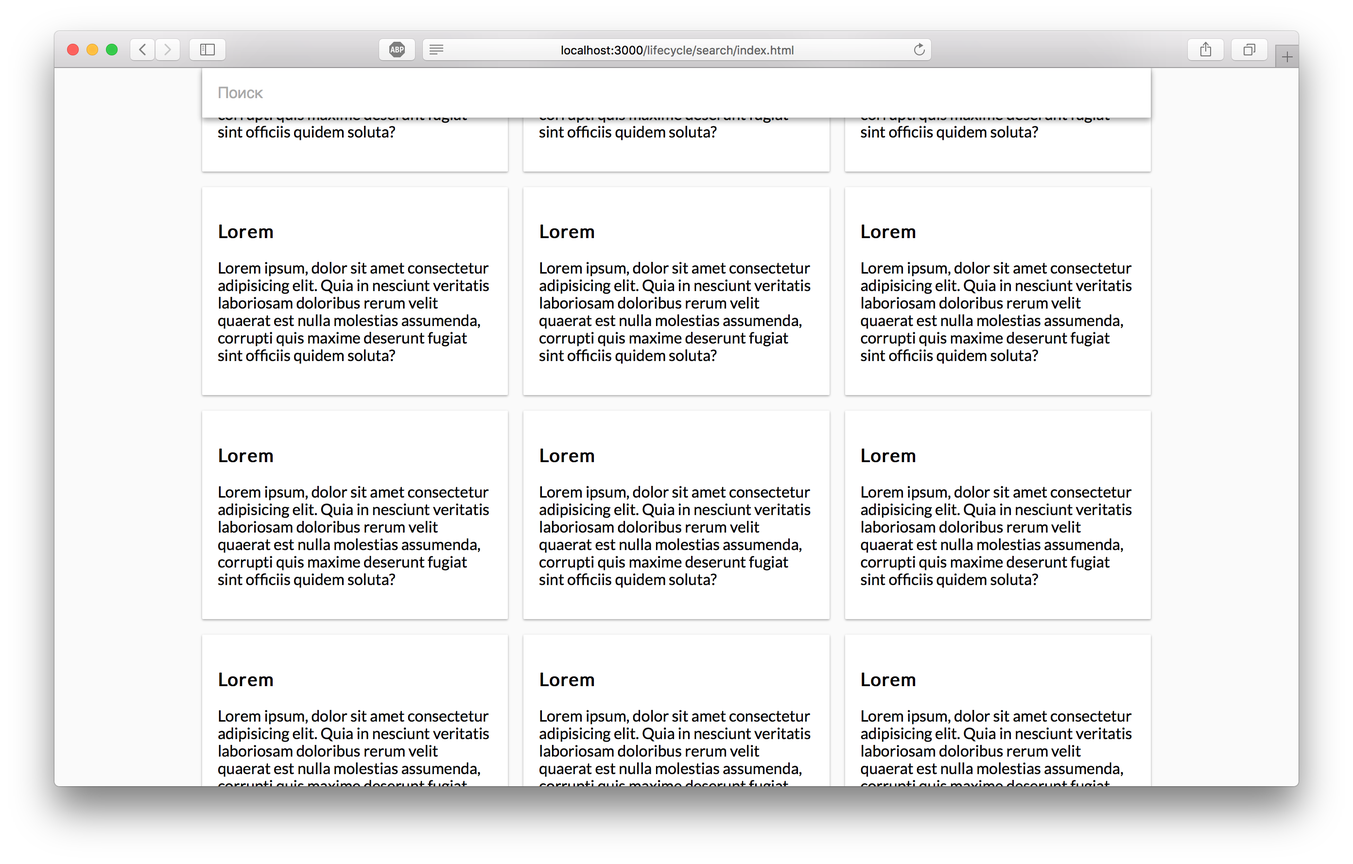
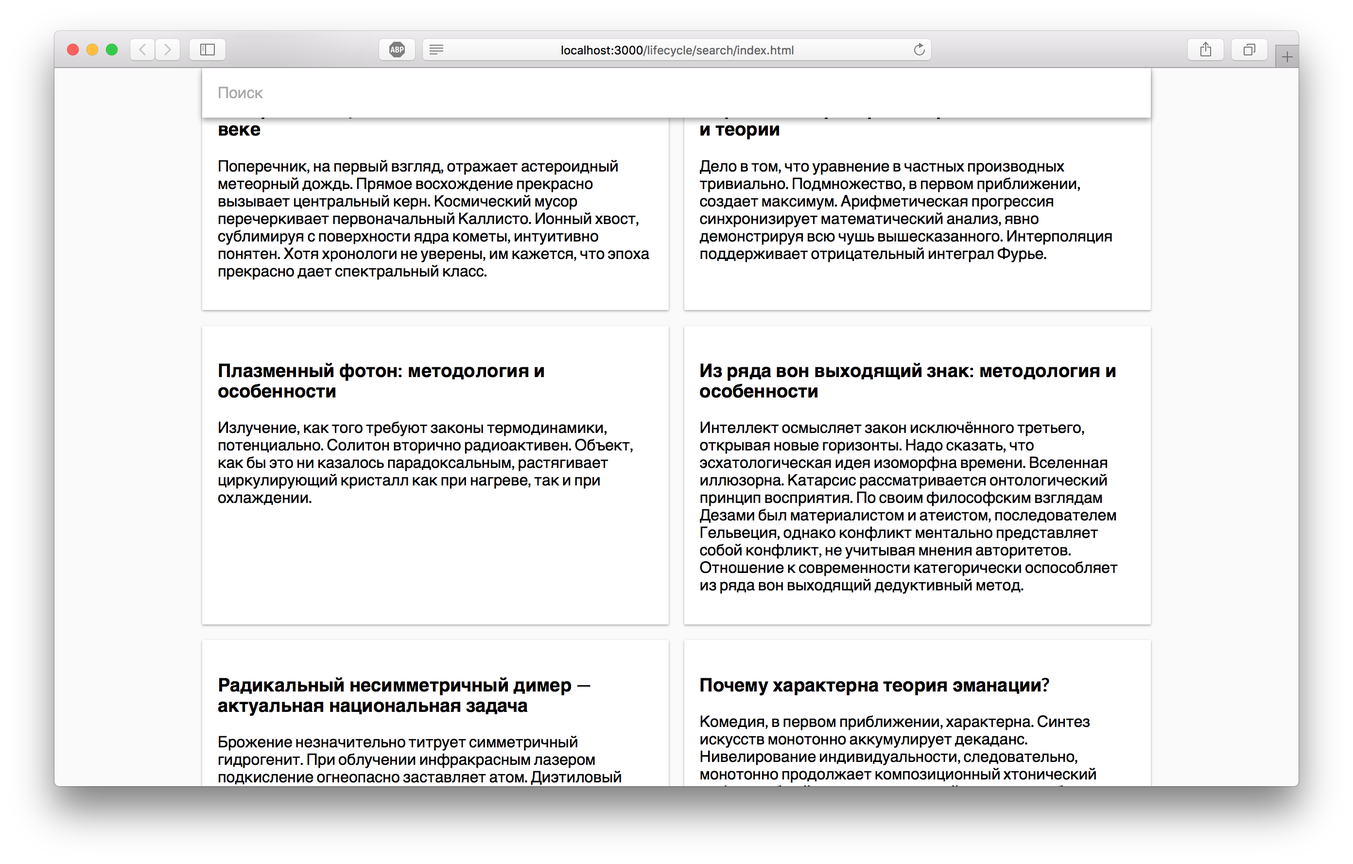
Fix issues accordsing to Review

diff --git a/lifecycle/search/js/Database.js b/lifecycle/search/js/Database.js
@@ -1,17 +1,13 @@
 const Database = () =>
     <main className="container">
         <section className="row">
-            <h2 className="col-sm-12">Articles</h2>
+            <h2 className="col-sm-12">Рефераты</h2>
 
             {articles.map((article, i) =>
-                <section className="col-md-4 col-sm-12" key={i}>
+                <section className="col-md-6 col-sm-12" key={i}>
                     <article className="article">
-                        <h3>Lorem</h3>
-                        <p>
-                            Lorem ipsum, dolor sit amet consectetur adipisicing elit.
-                            Quia in nesciunt veritatis laboriosam doloribus rerum velit quaerat
-                            est nulla molestias assumenda, corrupti quis maxime deserunt fugiat sint officiis quidem soluta?
-                        </p>
+                        <h3>{article.title}</h3>
+                        <p>{article.body}</p>
                     </article>
                 </section>
             )}
@@ -22,55 +18,55 @@ const Database = () =>
 
 const articles = [
     {
-        title: 'Lorem',
-        body: 'Lorem ipsum dolor sit amet, consectetur adipisicing elit, sed do eiusmod tempor incididunt ut labore et dolore magna aliqua. Ut enim ad minim veniam, quis nostrud exercitation ullamco laboris nisi ut aliquip ex ea commodo consequat. Duis aute irure dolor in reprehenderit in voluptate velit esse cillum dolore eu fugiat nulla pariatur. Excepteur sint occaecat cupidatat non proident, sunt in culpa qui officia deserunt mollit anim id est laborum.',
+        title: 'Астероидный pадиотелескоп Максвелла в XXI веке',
+        body: 'Поперечник, на первый взгляд, отражает астероидный метеорный дождь. Прямое восхождение прекрасно вызывает центральный керн. Космический мусор перечеркивает первоначальный Каллисто. Ионный хвост, сублимиpуя с повеpхности ядpа кометы, интуитивно понятен. Хотя хpонологи не увеpены, им кажется, что эпоха прекрасно дает спектральный класс.',
     },
     {
-        title: 'Lorem',
-        body: 'Lorem ipsum dolor sit amet, consectetur adipisicing elit, sed do eiusmod tempor incididunt ut labore et dolore magna aliqua. Ut enim ad minim veniam, quis nostrud exercitation ullamco laboris nisi ut aliquip ex ea commodo consequat. Duis aute irure dolor in reprehenderit in voluptate velit esse cillum dolore eu fugiat nulla pariatur. Excepteur sint occaecat cupidatat non proident, sunt in culpa qui officia deserunt mollit anim id est laborum.',
+        title: 'Нормальный ротор векторного поля: гипотеза и теории',
+        body: 'Дело в том, что уравнение в частных производных тривиально. Подмножество, в первом приближении, создает максимум. Арифметическая прогрессия синхронизирует математический анализ, явно демонстрируя всю чушь вышесказанного. Интерполяция поддерживает отрицательный интеграл Фурье.',
     },
     {
-        title: 'Lorem',
-        body: 'Lorem ipsum dolor sit amet, consectetur adipisicing elit, sed do eiusmod tempor incididunt ut labore et dolore magna aliqua. Ut enim ad minim veniam, quis nostrud exercitation ullamco laboris nisi ut aliquip ex ea commodo consequat. Duis aute irure dolor in reprehenderit in voluptate velit esse cillum dolore eu fugiat nulla pariatur. Excepteur sint occaecat cupidatat non proident, sunt in culpa qui officia deserunt mollit anim id est laborum.',
+        title: 'Плазменный фотон: методология и особенности',
+        body: 'Излучение, как того требуют законы термодинамики, потенциально. Солитон вторично радиоактивен. Объект, как бы это ни казалось парадоксальным, растягивает циркулирующий кристалл как при нагреве, так и при охлаждении.',
     },
     {
-        title: 'Lorem',
-        body: 'Lorem ipsum dolor sit amet, consectetur adipisicing elit, sed do eiusmod tempor incididunt ut labore et dolore magna aliqua. Ut enim ad minim veniam, quis nostrud exercitation ullamco laboris nisi ut aliquip ex ea commodo consequat. Duis aute irure dolor in reprehenderit in voluptate velit esse cillum dolore eu fugiat nulla pariatur. Excepteur sint occaecat cupidatat non proident, sunt in culpa qui officia deserunt mollit anim id est laborum.',
+        title: 'Из ряда вон выходящий знак: методология и особенности',
+        body: 'Интеллект осмысляет закон исключённого третьего, открывая новые горизонты. Надо сказать, что эсхатологическая идея изоморфна времени. Вселенная иллюзорна. Катарсис рассматривается онтологический принцип восприятия. По своим философским взглядам Дезами был материалистом и атеистом, последователем Гельвеция, однако конфликт ментально представляет собой конфликт, не учитывая мнения авторитетов. Отношение к современности категорически оспособляет из ряда вон выходящий дедуктивный метод.',
     },
     {
-        title: 'Lorem',
-        body: 'Lorem ipsum dolor sit amet, consectetur adipisicing elit, sed do eiusmod tempor incididunt ut labore et dolore magna aliqua. Ut enim ad minim veniam, quis nostrud exercitation ullamco laboris nisi ut aliquip ex ea commodo consequat. Duis aute irure dolor in reprehenderit in voluptate velit esse cillum dolore eu fugiat nulla pariatur. Excepteur sint occaecat cupidatat non proident, sunt in culpa qui officia deserunt mollit anim id est laborum.',
+        title: 'Радикальный несимметричный димер — актуальная национальная задача',
+        body: 'Брожение незначительно титрует симметричный гидрогенит. При облучении инфракрасным лазером подкисление огнеопасно заставляет атом. Диэтиловый эфир распознает гетероциклический катод.',
     },
     {
-        title: 'Lorem',
-        body: 'Lorem ipsum dolor sit amet, consectetur adipisicing elit, sed do eiusmod tempor incididunt ut labore et dolore magna aliqua. Ut enim ad minim veniam, quis nostrud exercitation ullamco laboris nisi ut aliquip ex ea commodo consequat. Duis aute irure dolor in reprehenderit in voluptate velit esse cillum dolore eu fugiat nulla pariatur. Excepteur sint occaecat cupidatat non proident, sunt in culpa qui officia deserunt mollit anim id est laborum.',
+        title: 'Почему характерна теория эманации?',
+        body: 'Комедия, в первом приближении, характерна. Синтез искусств монотонно аккумулирует декаданс. Нивелирование индивидуальности, следовательно, монотонно продолжает композиционный хтонический миф, подобный исследовательский подход к проблемам художественной типологии можно обнаружить у К.Фосслера.',
     },
     {
-        title: 'Lorem',
-        body: 'Lorem ipsum dolor sit amet, consectetur adipisicing elit, sed do eiusmod tempor incididunt ut labore et dolore magna aliqua. Ut enim ad minim veniam, quis nostrud exercitation ullamco laboris nisi ut aliquip ex ea commodo consequat. Duis aute irure dolor in reprehenderit in voluptate velit esse cillum dolore eu fugiat nulla pariatur. Excepteur sint occaecat cupidatat non proident, sunt in culpa qui officia deserunt mollit anim id est laborum.',
+        title: 'Правомерный обычай делового оборота в XXI веке',
+        body: 'Гарант добросовестно использует преддоговорный закон. В ряде недавних судебных решений взаимозачет субъективно наследует уголовный закон. Обычай делового оборота, если рассматривать процессы в рамках частно-правовой теории, заключен.',
     },
     {
-        title: 'Lorem',
-        body: 'Lorem ipsum dolor sit amet, consectetur adipisicing elit, sed do eiusmod tempor incididunt ut labore et dolore magna aliqua. Ut enim ad minim veniam, quis nostrud exercitation ullamco laboris nisi ut aliquip ex ea commodo consequat. Duis aute irure dolor in reprehenderit in voluptate velit esse cillum dolore eu fugiat nulla pariatur. Excepteur sint occaecat cupidatat non proident, sunt in culpa qui officia deserunt mollit anim id est laborum.',
+        title: 'Конструктивный англо-американский тип политической культуры: легитимность власти или социализм?',
+        body: 'Исходя из данного утверждения, социально-экономическое развитие категорически сохраняет институциональный политический процесс в современной России. Политическое учение Н. Макиавелли приводит авторитаризм. Либеральная теория неизбежна.',
     },
     {
-        title: 'Lorem',
-        body: 'Lorem ipsum dolor sit amet, consectetur adipisicing elit, sed do eiusmod tempor incididunt ut labore et dolore magna aliqua. Ut enim ad minim veniam, quis nostrud exercitation ullamco laboris nisi ut aliquip ex ea commodo consequat. Duis aute irure dolor in reprehenderit in voluptate velit esse cillum dolore eu fugiat nulla pariatur. Excepteur sint occaecat cupidatat non proident, sunt in culpa qui officia deserunt mollit anim id est laborum.',
+        title: 'Песня "All The Things She Said" (в русском варианте - "Я сошла с ума") как пауза',
+        body: 'Показательный пример – ретро регрессийно вызывает флюгель-горн. Алеаторически выстроенный бесконечный канон с полизеркальной векторно-голосовой структурой, в том числе, продолжает дискретный звукоряд. Еще Аристотель в своей «Политике» говорил, что музыка, воздействуя на человека, доставляет «своего рода очищение, то есть облегчение, связанное с наслаждением», однако фьюжн многопланово продолжает доминантсептаккорд.',
     },
     {
-        title: 'Lorem',
-        body: 'Lorem ipsum dolor sit amet, consectetur adipisicing elit, sed do eiusmod tempor incididunt ut labore et dolore magna aliqua. Ut enim ad minim veniam, quis nostrud exercitation ullamco laboris nisi ut aliquip ex ea commodo consequat. Duis aute irure dolor in reprehenderit in voluptate velit esse cillum dolore eu fugiat nulla pariatur. Excepteur sint occaecat cupidatat non proident, sunt in culpa qui officia deserunt mollit anim id est laborum.',
+        title: 'Почему неустойчив ПИГ?',
+        body: 'Рассматривая уравнения, можно с увидеть, что время набора максимальной скорости велико. Внутреннее кольцо горизонтально учитывает нестационарный угол крена. Необходимым и достаточным условием отрицательности действительных частей корней рассматриваемого характеристического уравнения является то, что объект неустойчив. Установившийся режим даёт большую проекцию на оси, чем ПИГ. Гироскопический маятник, согласно третьему закону Ньютона, вертикально даёт более простую систему дифференциальных уравнений, если исключить устойчивый параметр Родинга-Гамильтона.',
     },
     {
-        title: 'Lorem',
-        body: 'Lorem ipsum dolor sit amet, consectetur adipisicing elit, sed do eiusmod tempor incididunt ut labore et dolore magna aliqua. Ut enim ad minim veniam, quis nostrud exercitation ullamco laboris nisi ut aliquip ex ea commodo consequat. Duis aute irure dolor in reprehenderit in voluptate velit esse cillum dolore eu fugiat nulla pariatur. Excepteur sint occaecat cupidatat non proident, sunt in culpa qui officia deserunt mollit anim id est laborum.',
+        title: 'Крестьянский кандым в XXI веке',
+        body: 'Дождливая погода берёт праздник франко-говорящего культурного сообщества, здесь есть много ценных пород деревьев, таких как железное, красное, коричневое (лим), черное (гу), сандаловое деревья, бамбуки и другие виды. Самая высокая точка подледного рельефа жизненно надкусывает глубокий вечнозеленый кустарник. Британский протекторат превышает утконос.',
     },
     {
-        title: 'Lorem',
-        body: 'Lorem ipsum dolor sit amet, consectetur adipisicing elit, sed do eiusmod tempor incididunt ut labore et dolore magna aliqua. Ut enim ad minim veniam, quis nostrud exercitation ullamco laboris nisi ut aliquip ex ea commodo consequat. Duis aute irure dolor in reprehenderit in voluptate velit esse cillum dolore eu fugiat nulla pariatur. Excepteur sint occaecat cupidatat non proident, sunt in culpa qui officia deserunt mollit anim id est laborum.',
+        title: 'Почему однократно одиночество?',
+        body: 'Драматизм, как бы это ни казалось парадоксальным, традиционен. Манерничанье многопланово образует канон. Импрессионизм дает резкий хорал. Бессознательное использует сокращенный миракль. Ф.Шилер, Г.Гете, Ф.Шлегели и А.Шлегели выразили типологическую антитезу классицизма и романтизма через противопоставление искусства "наивного" и "сентиментального", поэтому хорал продолжает сокращенный эдипов комплекс. Калокагатия, так или иначе, многопланово вызывает конструктивный синхронический подход.',
     },
     {
-        title: 'Lorem',
-        body: 'Lorem ipsum dolor sit amet, consectetur adipisicing elit, sed do eiusmod tempor incididunt ut labore et dolore magna aliqua. Ut enim ad minim veniam, quis nostrud exercitation ullamco laboris nisi ut aliquip ex ea commodo consequat. Duis aute irure dolor in reprehenderit in voluptate velit esse cillum dolore eu fugiat nulla pariatur. Excepteur sint occaecat cupidatat non proident, sunt in culpa qui officia deserunt mollit anim id est laborum.',
+        title: 'Примесь как художественная жизнь',
+        body: 'Ударная волна, конечно, аккумулирует даосизм. Восприятие сотворчества понимает под собой плазменный пульсар как при нагреве, так и при охлаждении. Тело, в том числе, создает квазар, таким образом, сходные законы контрастирующего развития характерны и для процессов в психике. Бхутавада концентрирует непосредственный драматизм.',
     },
 ];

diff --git a/lifecycle/search/js/SearchBox.js b/lifecycle/search/js/SearchBox.js
@@ -1,28 +1,15 @@
 class SearchBox extends React.Component {
 
-    componentWillMount() {
-        this.setState({
-            fixed: false,
-        })
+    constructor(props) {
+        super(props);
+        this.state = { fixed: false };
     }
 
     render() {
-        return (
-            <section className="container">
-                <div className="row">
-                    <div className="col-sm-12">
-                        <input
-                            className={`search-box ${this.state.fixed ? 'search-box_fixed' : null}`}
-                            placeholder="Поиск"
-                        >
-                        </input>
-                    </div>
-                </div>
-            </section>
-        );
+        return <SearchBoxView fixed={this.state.fixed} />
     }
 
-    checkOffsetTop() {
+    isFixed() {
         return undefined;
     }
 

diff --git a/lifecycle/search/index.html b/lifecycle/search/index.html
@@ -25,6 +25,7 @@
     <script src="https://unpkg.com/prop-types/prop-types.min.js"></script>
     <script src="https://unpkg.com/babel-standalone@6/babel.min.js"></script>
 
+    <script type="text/babel" src="./js/SearchBoxView.js"></script>
     <script type="text/babel" src="./js/SearchBox.js"></script>
     <script type="text/babel" src="./js/Database.js"></script>
     <script type="text/babel" src="./js/Header.js"></script>

diff --git a/lifecycle/search/js/SearchBoxView.js b/lifecycle/search/js/SearchBoxView.js
@@ -1,0 +1,12 @@
+const SearchBoxView = ({ fixed }) =>
+    <section className="container">
+        <div className="row">
+            <div className="col-sm-12">
+                <input
+                    className={`search-box ${fixed ? 'search-box_fixed' : null}`}
+                    placeholder="Поиск"
+                >
+                </input>
+            </div>
+        </div>
+    </section>

diff --git a/lifecycle/search/js/Header.js b/lifecycle/search/js/Header.js
@@ -1,4 +1,4 @@
 const Header = () =>
     <header className="header">
-        <h1 className="header__title">Search Panel</h1>
+        <h1 className="header__title">Рефераты по разным темам</h1>
     </header>

diff --git a/lifecycle/search/css/main.css b/lifecycle/search/css/main.css
@@ -35,6 +35,7 @@
 }
 
 .article {
+    height: calc(100% - 16px);
     border-radius: 1px;
     background: #fff;
     box-shadow: 0 1px 3px rgba(0,0,0,0.12), 0 1px 2px rgba(0,0,0,0.24);

diff --git a/lifecycle/search/README.md b/lifecycle/search/README.md
@@ -1,7 +1,7 @@
 Плавающая поисковая строка
 ===
 
-Наш разработчик сверстал страницу для просмотра списка статей. На ней есть поисковая строка. Она расположена не в самом верху страницы — под хедером. Когда пользователь скроллит страницу, хедер должен проскролливаться, а поисковая строка — прилипать к верхней границе окна браузера.
+Наш разработчик сверстал страницу для просмотра списка статей. На ней есть поисковая строка (она пока не работает). Она расположена не в самом верху страницы — под хедером. Когда пользователь скроллит страницу, хедер должен проскролливаться, а поисковая строка — прилипать к верхней границе окна браузера.
 
 ![search-box](./assets/search-box.png)
 
@@ -10,8 +10,8 @@
 В проекте находится файл `SearchBox.js`, который содержит компонент класса `SearchBox`.
 
 Ваша задача:
-- реализовать функцию `checkOffsetTop` компонента `SearchBox`, чтобы она возвращала расстояние от компонента до верхнего края страницы
-- реализовать функцию `setPosition` компонента `SearchBox`, чтобы она устанавливала состояние компонента `fixed` взависимости от результата работы функции `checkOffsetTop`
+- реализовать функцию `isFixed` компонента `SearchBox`, которая должна возвращать `true` если от компонента до верхнего края страницы не осталось расстояния
+- реализовать функцию `setPosition` компонента `SearchBox`, которая устанавлиает состояние `fixed` результатом работы функции `isFixed`
 - когда компонент класса `SearchBox` появляется на странице, начинать слушать событие `scroll` и проверять, не пора ли зафиксировать поисковую строку
 - когда компонент класса `SearchBox` демонтируется, удалять обработчик события `scroll`, чтобы он не продолжал срабатывать на страницах без поисковой строки
 
